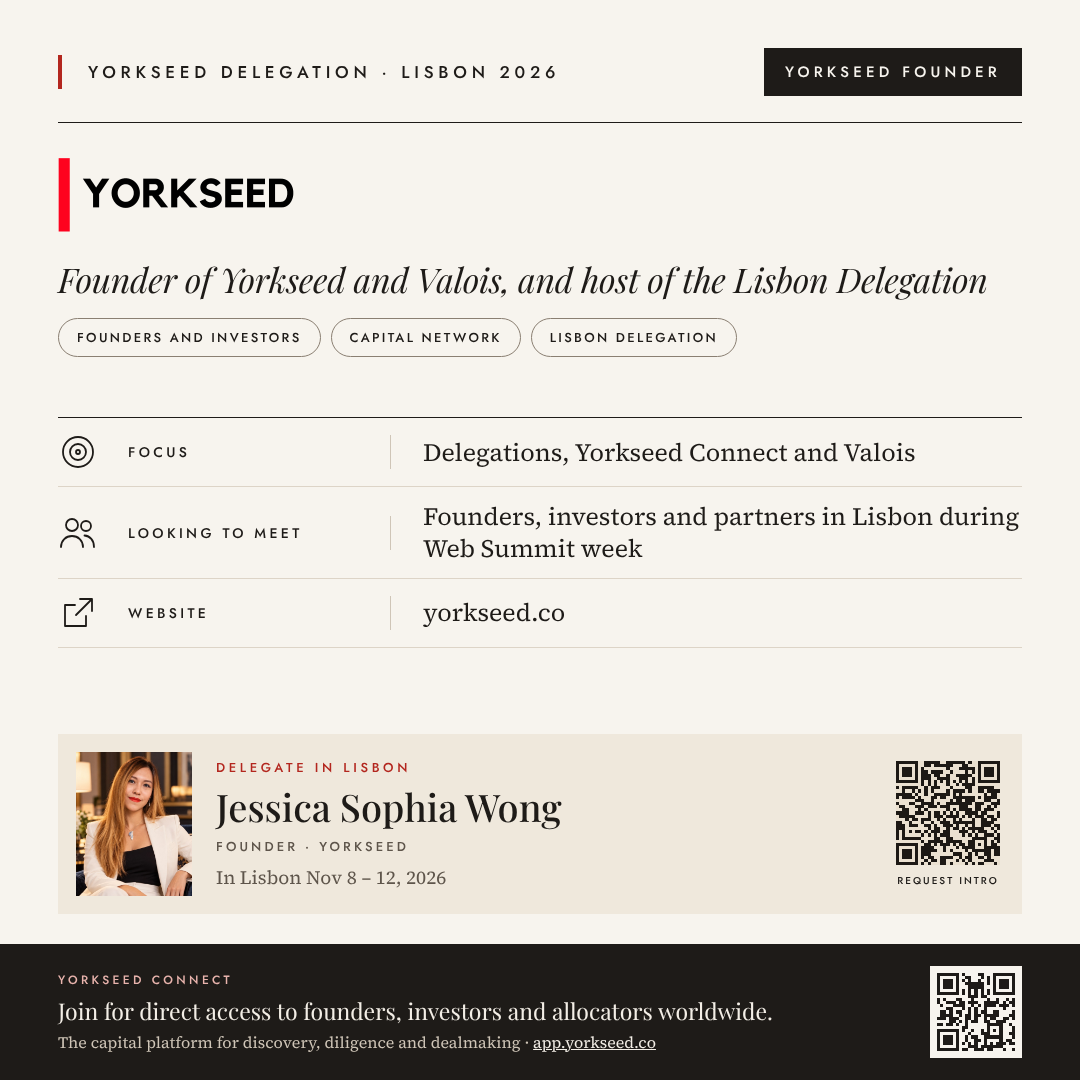
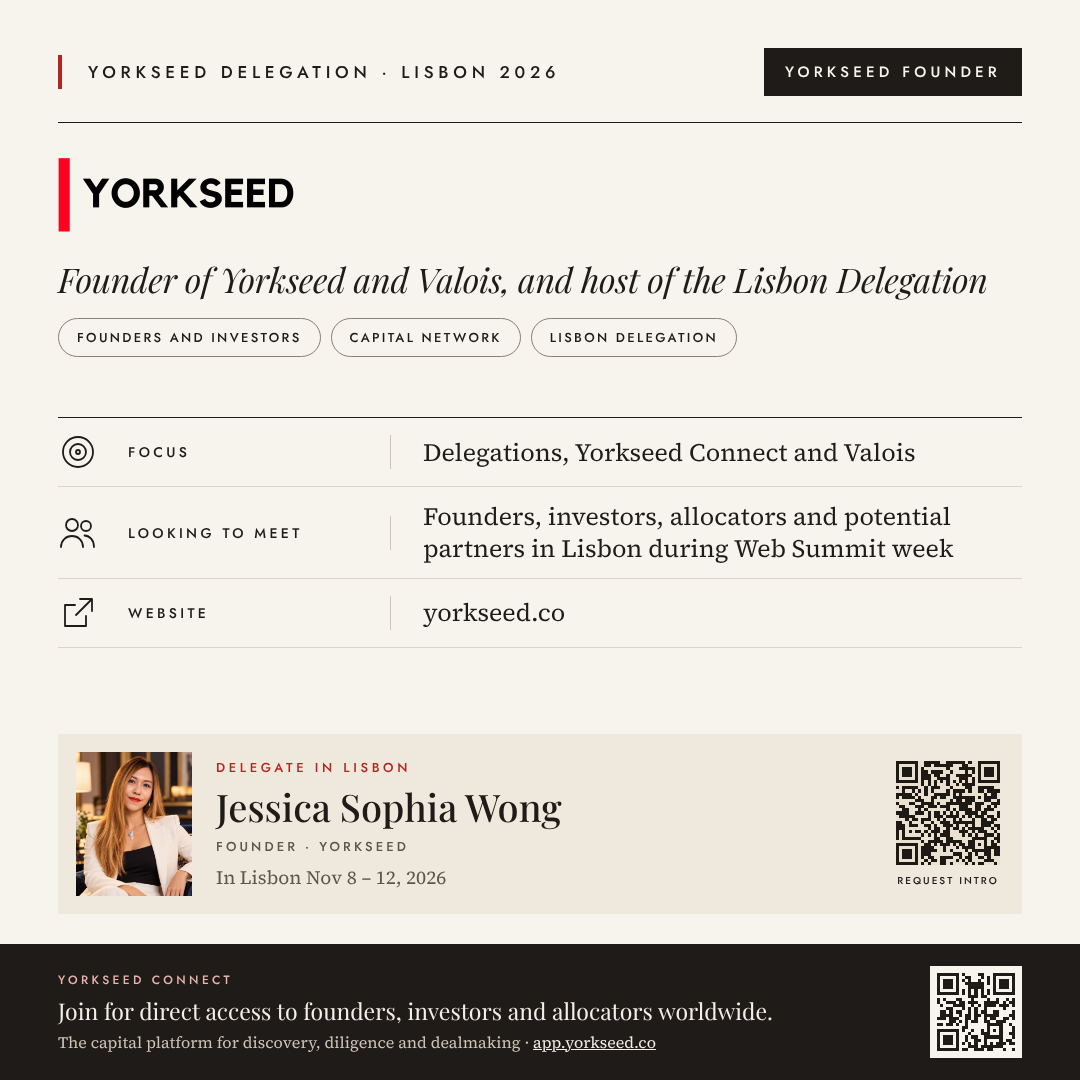
Host: looking to meet allocators and potential partners
Claude-Session: https://claude.ai/code/session_018br8hpGigYzf486SwuQ8cD

Changed region(s): [[0.3972, 0.4583, 0.9472, 0.5194]]

diff --git a/delegation/lisbon-2026/delegates/index.html b/delegation/lisbon-2026/delegates/index.html
@@ -167,7 +167,7 @@
     <a class="dn-btn" href="/delegation/lisbon-2026/book/">Open the Deal Book &rarr;</a>
   </section>
 
-  <section class="dn-sec" id="host"><div class="dn-sh"><h2>Yorkseed Founder</h2><span>1 delegate · 1 company</span></div><article class="dn-row"><div class="dn-left"><div class="dn-logo"><img src="/delegation/lisbon-2026/img/jessica-sophia-wong/logo.png" alt="Yorkseed"></div><a class="dn-site" href="https://yorkseed.co" target="_blank" rel="noopener">yorkseed.co &#8599;</a><a class="dn-page" href="/delegation/lisbon-2026/book/?page=4" target="_blank" rel="noopener">Deal Book p. 4 &#8599;</a></div><div class="dn-mid"><h3>Yorkseed</h3><p class="dn-tag">Founder of Yorkseed and Valois, and host of the Lisbon Delegation</p><dl class="dn-facts"><div><dt>Focus</dt><dd>Delegations, Yorkseed Connect and Valois</dd></div><div><dt>Looking to meet</dt><dd>Founders, investors and partners in Lisbon during Web Summit week</dd></div></dl><div class="dn-kw"><span>Founders and investors</span><span>Capital network</span><span>Lisbon Delegation</span></div></div><div class="dn-people"><a class="dn-person" href="/delegation/lisbon-2026/jessica-sophia-wong/"><img src="/delegation/lisbon-2026/img/jessica-sophia-wong/photo.jpg" alt=""><span class="dn-pn"><b>Jessica Sophia Wong</b><small>Founder</small></span><span class="dn-req">Request an introduction <i>&rarr;</i></span></a></div></article></section><section class="dn-sec" id="founder"><div class="dn-sh"><h2>Founders</h2><span>1 delegate · 1 company</span></div><article class="dn-row"><div class="dn-left"><div class="dn-logo"><img src="/delegation/lisbon-2026/img/marko-goels/logo.png" alt="ONONO AI AG"></div><a class="dn-site" href="https://onono.ai" target="_blank" rel="noopener">onono.ai &#8599;</a><a class="dn-page" href="/delegation/lisbon-2026/book/?page=17" target="_blank" rel="noopener">Deal Book p. 17 &#8599;</a></div><div class="dn-mid"><h3>ONONO AI AG</h3><p class="dn-tag">AI that understands time and perspectives. Built to learn and evolve.</p><dl class="dn-facts"><div><dt>Focus</dt><dd>Seed, raising in the next 6 months</dd></div><div><dt>Looking to meet</dt><dd>Seed and deep tech investors, potential seed leads, litigation and legal-tech partners, and builders of agentic AI systems</dd></div></dl><div class="dn-kw"><span>Neuro-symbolic AI</span><span>RSI</span><span>Continuous learning</span></div></div><div class="dn-people"><a class="dn-person" href="/delegation/lisbon-2026/marko-goels/"><img src="/delegation/lisbon-2026/img/marko-goels/photo.jpg" alt=""><span class="dn-pn"><b>Marko Göls</b><small>Co-Founder and CBO</small></span><span class="dn-req">Request an introduction <i>&rarr;</i></span></a></div></article></section><section class="dn-sec" id="investor"><div class="dn-sh"><h2>Investors</h2><span>6 delegates · 5 firms</span></div><article class="dn-row"><div class="dn-left"><div class="dn-logo"><img src="/delegation/lisbon-2026/img/shane-sabine/logo.svg" alt="Punch Capital"></div><a class="dn-site" href="https://punchcap.com" target="_blank" rel="noopener">punchcap.com &#8599;</a><a class="dn-page" href="/delegation/lisbon-2026/book/?page=12" target="_blank" rel="noopener">Deal Book p. 12 &#8599;</a></div><div class="dn-mid"><h3>Punch Capital</h3><p class="dn-tag">Backing international AI founders in the US</p><dl class="dn-facts"><div><dt>Focus</dt><dd>Pre-seed and seed, $100,000</dd></div><div><dt>Looking to meet</dt><dd>Early-stage AI founders landing in the US</dd></div></dl><div class="dn-kw"><span>Early stage</span><span>AI</span><span>International founders</span></div></div><div class="dn-people"><a class="dn-person" href="/delegation/lisbon-2026/shane-sabine/"><img src="/delegation/lisbon-2026/img/shane-sabine/photo.jpg" alt=""><span class="dn-pn"><b>Shane Sabine</b><small>Managing Partner</small></span><span class="dn-req">Request an introduction <i>&rarr;</i></span></a></div></article><article class="dn-row"><div class="dn-left"><div class="dn-logo"><img src="/delegation/lisbon-2026/img/munjal-subodh/logo.svg" alt="EdgeCraft"></div><a class="dn-site" href="https://www.edgecraftgroup.com" target="_blank" rel="noopener">edgecraftgroup.com &#8599;</a><a class="dn-page" href="/delegation/lisbon-2026/book/?page=13" target="_blank" rel="noopener">Deal Book p. 13 &#8599;</a></div><div class="dn-mid"><h3>EdgeCraft</h3><p class="dn-tag">Investing at the edge of possibility</p><dl class="dn-facts"><div><dt>Focus</dt><dd>Public markets: Nasdaq-100 options. Does not invest in private startups.</dd></div><div><dt>Looking to meet</dt><dd>Compliance providers and hedge fund operations specialists</dd></div></dl><div class="dn-kw"><span>Option strategy</span><span>Nasdaq derivatives</span><span>Long-term investment</span></div></div><div class="dn-people"><a class="dn-person" href="/delegation/lisbon-2026/munjal-subodh/"><img src="/delegation/lisbon-2026/img/munjal-subodh/photo.jpg" alt=""><span class="dn-pn"><b>Munjal Subodh</b><small>Founder and CIO</small></span><span class="dn-req">Request an introduction <i>&rarr;</i></span></a><a class="dn-person" href="/delegation/lisbon-2026/nora-jurics-feher/"><img src="/delegation/lisbon-2026/img/nora-jurics-feher/photo.jpg" alt=""><span class="dn-pn"><b>Nóra Jurics-Fehér</b><small>Chief of Staff</small></span><span class="dn-req">Request an introduction <i>&rarr;</i></span></a></div></article><article class="dn-row"><div class="dn-left"><div class="dn-logo"><img src="/delegation/lisbon-2026/img/mohammed-al-rasbi/logo.png" alt="R&amp;D Capital"></div><a class="dn-site" href="https://rd.co.om" target="_blank" rel="noopener">rd.co.om &#8599;</a><a class="dn-page" href="/delegation/lisbon-2026/book/?page=14" target="_blank" rel="noopener">Deal Book p. 14 &#8599;</a></div><div class="dn-mid"><h3>R&amp;D Capital</h3><p class="dn-tag">Early-stage fund investing in Omani startups</p><dl class="dn-facts"><div><dt>Focus</dt><dd>Pre-seed to seed, sector agnostic, up to $250,000</dd></div><div><dt>Looking to meet</dt><dd>Family offices, LPs, funds of funds and co-investors for Omani startups</dd></div></dl><div class="dn-kw"><span>Oman</span><span>Pre-seed</span><span>Seed</span></div></div><div class="dn-people"><a class="dn-person" href="/delegation/lisbon-2026/mohammed-al-rasbi/"><img src="/delegation/lisbon-2026/img/mohammed-al-rasbi/photo.jpg" alt=""><span class="dn-pn"><b>Mohammed Al Rasbi</b><small>Founder and General Partner</small></span><span class="dn-req">Request an introduction <i>&rarr;</i></span></a></div></article><article class="dn-row"><div class="dn-left"><div class="dn-logo"><img src="/delegation/lisbon-2026/img/polina-alexandrova/logo.png" alt="Calendula Ventures"></div><a class="dn-site" href="https://calendula.vc" target="_blank" rel="noopener">calendula.vc &#8599;</a><a class="dn-page" href="/delegation/lisbon-2026/book/?page=15" target="_blank" rel="noopener">Deal Book p. 15 &#8599;</a></div><div class="dn-mid"><h3>Calendula Ventures</h3><p class="dn-tag">Deal-by-deal investing in seed to Series A B2B SaaS, fintech and AI</p><dl class="dn-facts"><div><dt>Focus</dt><dd>Seed to Series A, tickets of $500K to $3M</dd></div><div><dt>Looking to meet</dt><dd>Founders and other investors</dd></div></dl><div class="dn-kw"><span>Seed to Series A</span><span>B2B SaaS, fintech and AI</span><span>Deal by deal</span></div></div><div class="dn-people"><a class="dn-person" href="/delegation/lisbon-2026/polina-alexandrova/"><img src="/delegation/lisbon-2026/img/polina-alexandrova/photo.jpg" alt=""><span class="dn-pn"><b>Polina Alexandrova</b><small>Founding Partner</small></span><span class="dn-req">Request an introduction <i>&rarr;</i></span></a></div></article><article class="dn-row"><div class="dn-left"><div class="dn-logo"><img src="/delegation/lisbon-2026/img/sylvain-theveniaud/logo.png" alt="Allianz Accelerator"></div><a class="dn-site" href="https://www.allianz.fr/qui-est-allianz/nous-connaitre/allianz-innove/accelerateur/en.html" target="_blank" rel="noopener">allianz.fr/qui-est-allianz/nous-connaitre/allianz-innove/accelerateur/en.html &#8599;</a><a class="dn-page" href="/delegation/lisbon-2026/book/?page=16" target="_blank" rel="noopener">Deal Book p. 16 &#8599;</a></div><div class="dn-mid"><h3>Allianz Accelerator</h3><p class="dn-tag">Investing in exceptional founders in deeptech and physical AI</p><dl class="dn-facts"><div><dt>Focus</dt><dd>Pre-seed to late stage, €10K to €1M</dd></div><div><dt>Looking to meet</dt><dd>Exceptional founders, and fellow investors to share deals with</dd></div></dl><div class="dn-kw"><span>Early and late stage</span><span>Physical AI and BCI</span><span>Deeptech</span></div></div><div class="dn-people"><a class="dn-person" href="/delegation/lisbon-2026/sylvain-theveniaud/"><img src="/delegation/lisbon-2026/img/sylvain-theveniaud/photo.jpg" alt=""><span class="dn-pn"><b>Sylvain Theveniaud</b><small>Founder and Managing Director</small></span><span class="dn-req">Request an introduction <i>&rarr;</i></span></a></div></article></section>
+  <section class="dn-sec" id="host"><div class="dn-sh"><h2>Yorkseed Founder</h2><span>1 delegate · 1 company</span></div><article class="dn-row"><div class="dn-left"><div class="dn-logo"><img src="/delegation/lisbon-2026/img/jessica-sophia-wong/logo.png" alt="Yorkseed"></div><a class="dn-site" href="https://yorkseed.co" target="_blank" rel="noopener">yorkseed.co &#8599;</a><a class="dn-page" href="/delegation/lisbon-2026/book/?page=4" target="_blank" rel="noopener">Deal Book p. 4 &#8599;</a></div><div class="dn-mid"><h3>Yorkseed</h3><p class="dn-tag">Founder of Yorkseed and Valois, and host of the Lisbon Delegation</p><dl class="dn-facts"><div><dt>Focus</dt><dd>Delegations, Yorkseed Connect and Valois</dd></div><div><dt>Looking to meet</dt><dd>Founders, investors, allocators and potential partners in Lisbon during Web Summit week</dd></div></dl><div class="dn-kw"><span>Founders and investors</span><span>Capital network</span><span>Lisbon Delegation</span></div></div><div class="dn-people"><a class="dn-person" href="/delegation/lisbon-2026/jessica-sophia-wong/"><img src="/delegation/lisbon-2026/img/jessica-sophia-wong/photo.jpg" alt=""><span class="dn-pn"><b>Jessica Sophia Wong</b><small>Founder</small></span><span class="dn-req">Request an introduction <i>&rarr;</i></span></a></div></article></section><section class="dn-sec" id="founder"><div class="dn-sh"><h2>Founders</h2><span>1 delegate · 1 company</span></div><article class="dn-row"><div class="dn-left"><div class="dn-logo"><img src="/delegation/lisbon-2026/img/marko-goels/logo.png" alt="ONONO AI AG"></div><a class="dn-site" href="https://onono.ai" target="_blank" rel="noopener">onono.ai &#8599;</a><a class="dn-page" href="/delegation/lisbon-2026/book/?page=17" target="_blank" rel="noopener">Deal Book p. 17 &#8599;</a></div><div class="dn-mid"><h3>ONONO AI AG</h3><p class="dn-tag">AI that understands time and perspectives. Built to learn and evolve.</p><dl class="dn-facts"><div><dt>Focus</dt><dd>Seed, raising in the next 6 months</dd></div><div><dt>Looking to meet</dt><dd>Seed and deep tech investors, potential seed leads, litigation and legal-tech partners, and builders of agentic AI systems</dd></div></dl><div class="dn-kw"><span>Neuro-symbolic AI</span><span>RSI</span><span>Continuous learning</span></div></div><div class="dn-people"><a class="dn-person" href="/delegation/lisbon-2026/marko-goels/"><img src="/delegation/lisbon-2026/img/marko-goels/photo.jpg" alt=""><span class="dn-pn"><b>Marko Göls</b><small>Co-Founder and CBO</small></span><span class="dn-req">Request an introduction <i>&rarr;</i></span></a></div></article></section><section class="dn-sec" id="investor"><div class="dn-sh"><h2>Investors</h2><span>6 delegates · 5 firms</span></div><article class="dn-row"><div class="dn-left"><div class="dn-logo"><img src="/delegation/lisbon-2026/img/shane-sabine/logo.svg" alt="Punch Capital"></div><a class="dn-site" href="https://punchcap.com" target="_blank" rel="noopener">punchcap.com &#8599;</a><a class="dn-page" href="/delegation/lisbon-2026/book/?page=12" target="_blank" rel="noopener">Deal Book p. 12 &#8599;</a></div><div class="dn-mid"><h3>Punch Capital</h3><p class="dn-tag">Backing international AI founders in the US</p><dl class="dn-facts"><div><dt>Focus</dt><dd>Pre-seed and seed, $100,000</dd></div><div><dt>Looking to meet</dt><dd>Early-stage AI founders landing in the US</dd></div></dl><div class="dn-kw"><span>Early stage</span><span>AI</span><span>International founders</span></div></div><div class="dn-people"><a class="dn-person" href="/delegation/lisbon-2026/shane-sabine/"><img src="/delegation/lisbon-2026/img/shane-sabine/photo.jpg" alt=""><span class="dn-pn"><b>Shane Sabine</b><small>Managing Partner</small></span><span class="dn-req">Request an introduction <i>&rarr;</i></span></a></div></article><article class="dn-row"><div class="dn-left"><div class="dn-logo"><img src="/delegation/lisbon-2026/img/munjal-subodh/logo.svg" alt="EdgeCraft"></div><a class="dn-site" href="https://www.edgecraftgroup.com" target="_blank" rel="noopener">edgecraftgroup.com &#8599;</a><a class="dn-page" href="/delegation/lisbon-2026/book/?page=13" target="_blank" rel="noopener">Deal Book p. 13 &#8599;</a></div><div class="dn-mid"><h3>EdgeCraft</h3><p class="dn-tag">Investing at the edge of possibility</p><dl class="dn-facts"><div><dt>Focus</dt><dd>Public markets: Nasdaq-100 options. Does not invest in private startups.</dd></div><div><dt>Looking to meet</dt><dd>Compliance providers and hedge fund operations specialists</dd></div></dl><div class="dn-kw"><span>Option strategy</span><span>Nasdaq derivatives</span><span>Long-term investment</span></div></div><div class="dn-people"><a class="dn-person" href="/delegation/lisbon-2026/munjal-subodh/"><img src="/delegation/lisbon-2026/img/munjal-subodh/photo.jpg" alt=""><span class="dn-pn"><b>Munjal Subodh</b><small>Founder and CIO</small></span><span class="dn-req">Request an introduction <i>&rarr;</i></span></a><a class="dn-person" href="/delegation/lisbon-2026/nora-jurics-feher/"><img src="/delegation/lisbon-2026/img/nora-jurics-feher/photo.jpg" alt=""><span class="dn-pn"><b>Nóra Jurics-Fehér</b><small>Chief of Staff</small></span><span class="dn-req">Request an introduction <i>&rarr;</i></span></a></div></article><article class="dn-row"><div class="dn-left"><div class="dn-logo"><img src="/delegation/lisbon-2026/img/mohammed-al-rasbi/logo.png" alt="R&amp;D Capital"></div><a class="dn-site" href="https://rd.co.om" target="_blank" rel="noopener">rd.co.om &#8599;</a><a class="dn-page" href="/delegation/lisbon-2026/book/?page=14" target="_blank" rel="noopener">Deal Book p. 14 &#8599;</a></div><div class="dn-mid"><h3>R&amp;D Capital</h3><p class="dn-tag">Early-stage fund investing in Omani startups</p><dl class="dn-facts"><div><dt>Focus</dt><dd>Pre-seed to seed, sector agnostic, up to $250,000</dd></div><div><dt>Looking to meet</dt><dd>Family offices, LPs, funds of funds and co-investors for Omani startups</dd></div></dl><div class="dn-kw"><span>Oman</span><span>Pre-seed</span><span>Seed</span></div></div><div class="dn-people"><a class="dn-person" href="/delegation/lisbon-2026/mohammed-al-rasbi/"><img src="/delegation/lisbon-2026/img/mohammed-al-rasbi/photo.jpg" alt=""><span class="dn-pn"><b>Mohammed Al Rasbi</b><small>Founder and General Partner</small></span><span class="dn-req">Request an introduction <i>&rarr;</i></span></a></div></article><article class="dn-row"><div class="dn-left"><div class="dn-logo"><img src="/delegation/lisbon-2026/img/polina-alexandrova/logo.png" alt="Calendula Ventures"></div><a class="dn-site" href="https://calendula.vc" target="_blank" rel="noopener">calendula.vc &#8599;</a><a class="dn-page" href="/delegation/lisbon-2026/book/?page=15" target="_blank" rel="noopener">Deal Book p. 15 &#8599;</a></div><div class="dn-mid"><h3>Calendula Ventures</h3><p class="dn-tag">Deal-by-deal investing in seed to Series A B2B SaaS, fintech and AI</p><dl class="dn-facts"><div><dt>Focus</dt><dd>Seed to Series A, tickets of $500K to $3M</dd></div><div><dt>Looking to meet</dt><dd>Founders and other investors</dd></div></dl><div class="dn-kw"><span>Seed to Series A</span><span>B2B SaaS, fintech and AI</span><span>Deal by deal</span></div></div><div class="dn-people"><a class="dn-person" href="/delegation/lisbon-2026/polina-alexandrova/"><img src="/delegation/lisbon-2026/img/polina-alexandrova/photo.jpg" alt=""><span class="dn-pn"><b>Polina Alexandrova</b><small>Founding Partner</small></span><span class="dn-req">Request an introduction <i>&rarr;</i></span></a></div></article><article class="dn-row"><div class="dn-left"><div class="dn-logo"><img src="/delegation/lisbon-2026/img/sylvain-theveniaud/logo.png" alt="Allianz Accelerator"></div><a class="dn-site" href="https://www.allianz.fr/qui-est-allianz/nous-connaitre/allianz-innove/accelerateur/en.html" target="_blank" rel="noopener">allianz.fr/qui-est-allianz/nous-connaitre/allianz-innove/accelerateur/en.html &#8599;</a><a class="dn-page" href="/delegation/lisbon-2026/book/?page=16" target="_blank" rel="noopener">Deal Book p. 16 &#8599;</a></div><div class="dn-mid"><h3>Allianz Accelerator</h3><p class="dn-tag">Investing in exceptional founders in deeptech and physical AI</p><dl class="dn-facts"><div><dt>Focus</dt><dd>Pre-seed to late stage, €10K to €1M</dd></div><div><dt>Looking to meet</dt><dd>Exceptional founders, and fellow investors to share deals with</dd></div></dl><div class="dn-kw"><span>Early and late stage</span><span>Physical AI and BCI</span><span>Deeptech</span></div></div><div class="dn-people"><a class="dn-person" href="/delegation/lisbon-2026/sylvain-theveniaud/"><img src="/delegation/lisbon-2026/img/sylvain-theveniaud/photo.jpg" alt=""><span class="dn-pn"><b>Sylvain Theveniaud</b><small>Founder and Managing Director</small></span><span class="dn-req">Request an introduction <i>&rarr;</i></span></a></div></article></section>
   <p class="dn-unl">10 investors are joining the delegation. 6 are listed here, and 4 have chosen to keep their profiles private.</p>
 
   <section class="dn-soon" id="more">

diff --git a/delegation/lisbon-2026/jessica-sophia-wong/index.html b/delegation/lisbon-2026/jessica-sophia-wong/index.html
@@ -27,7 +27,7 @@
   <a class="brand" href="/delegation/lisbon-2026/delegates/"><span class="eyebrow">Yorkseed Delegation · Lisbon 2026</span></a>
   <div class="grid">
     <section class="profile" aria-label="Delegate profile">
-<a href="https://yorkseed.co" class="flogo"><img src="/delegation/lisbon-2026/img/jessica-sophia-wong/logo.png" alt="Yorkseed"></a><div class="eyebrow tag">Yorkseed Founder</div><h1><a href="https://yorkseed.co">Yorkseed</a></h1><div class="tagline">Founder of Yorkseed and Valois, and host of the Lisbon Delegation</div><p class="about">Jessica Sophia Wong is the founder of Yorkseed, the curated global capital network for founders, investors, institutions and allocators, and of Valois. She hosts the Yorkseed Delegation at Web Summit Lisbon. Her work is to bring the right people into the same room.</p><div class="pills"><span>Founders and investors</span><span>Capital network</span><span>Lisbon Delegation</span></div><dl><div><dt class="eyebrow">Focus</dt><dd>Delegations, Yorkseed Connect and Valois</dd></div><div><dt class="eyebrow">Looking to meet</dt><dd>Founders, investors and partners in Lisbon during Web Summit week</dd></div><div><dt class="eyebrow">In Lisbon</dt><dd>Nov 8 – Nov 12, 2026</dd></div></dl><div class="delegate"><img src="/delegation/lisbon-2026/img/jessica-sophia-wong/photo.jpg" alt="Jessica Sophia Wong"><div><div class="eyebrow" style="color:var(--accent)">Delegate in Lisbon</div><div class="dname">Jessica Sophia Wong</div><div class="eyebrow">Founder</div></div></div>
+<a href="https://yorkseed.co" class="flogo"><img src="/delegation/lisbon-2026/img/jessica-sophia-wong/logo.png" alt="Yorkseed"></a><div class="eyebrow tag">Yorkseed Founder</div><h1><a href="https://yorkseed.co">Yorkseed</a></h1><div class="tagline">Founder of Yorkseed and Valois, and host of the Lisbon Delegation</div><p class="about">Jessica Sophia Wong is the founder of Yorkseed, the curated global capital network for founders, investors, institutions and allocators, and of Valois. She hosts the Yorkseed Delegation at Web Summit Lisbon. Her work is to bring the right people into the same room.</p><div class="pills"><span>Founders and investors</span><span>Capital network</span><span>Lisbon Delegation</span></div><dl><div><dt class="eyebrow">Focus</dt><dd>Delegations, Yorkseed Connect and Valois</dd></div><div><dt class="eyebrow">Looking to meet</dt><dd>Founders, investors, allocators and potential partners in Lisbon during Web Summit week</dd></div><div><dt class="eyebrow">In Lisbon</dt><dd>Nov 8 – Nov 12, 2026</dd></div></dl><div class="delegate"><img src="/delegation/lisbon-2026/img/jessica-sophia-wong/photo.jpg" alt="Jessica Sophia Wong"><div><div class="eyebrow" style="color:var(--accent)">Delegate in Lisbon</div><div class="dname">Jessica Sophia Wong</div><div class="eyebrow">Founder</div></div></div>
     </section>
 
     <div id="notyet" class="closed" hidden>
